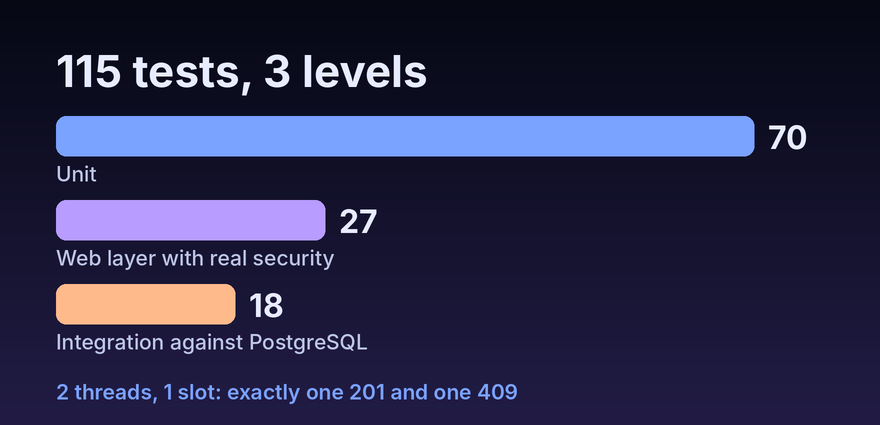
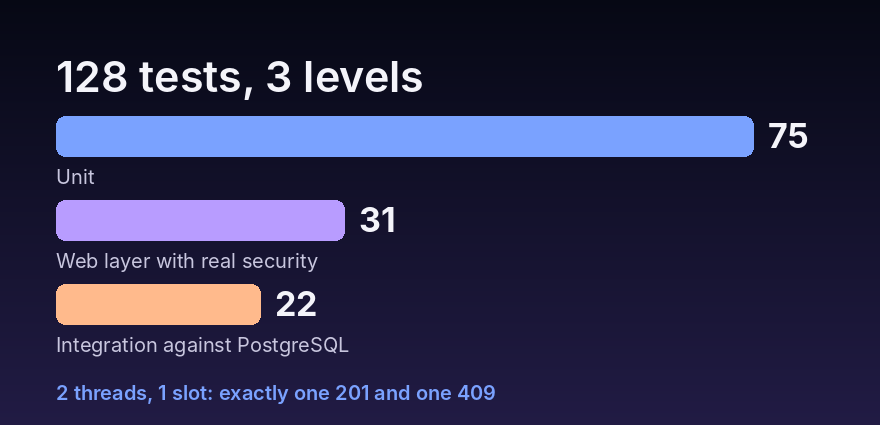
Cifras al día con los repos y CV regenerado
Dr. Agramonte ya tiene 128 pruebas (75 unitarias, 31 de capa web y 22 de
integración) y 5 E2E con Playwright, así que la tarjeta de QA ya no puede
decir que no hay pruebas de navegador. Rehago los dos gráficos.

En la Farmacia, las páginas salen de dos JSON; el CSV solo alimenta el
catálogo. Añado los 218 tests de pytest, que no salían en ninguna parte.

En el CV quito «consulta real»: la versión pública sigue siendo la demo.
Sumo Mockito, Playwright, pytest y Maven, que ya uso en los repos.

diff --git a/src/data/proyectos.js b/src/data/proyectos.js
@@ -28,20 +28,20 @@
 // con más peso técnico.
 //
 // Los datos de abajo salen de los README de cada repositorio, repasados el
-// 2026-11-06. Cuando cambie el proyecto, la fuente buena es su README.
+// 2026-11-08. Cuando cambie el proyecto, la fuente buena es su README.
 
 export const proyectos = [
   {
     titulo: "Web Dr. Agramonte",
-    // Sin «En desarrollo»: es el TFC entregado, con 115 pruebas y CI. La
+    // Sin «En desarrollo»: es el TFC entregado, con 128 pruebas y CI. La
     // etiqueta queda para los proyectos que de verdad están a medias.
     descripcion: {
       es: "Aplicación de citas para un internista en Palma, con agendas por centro, reservas sin registro y avisos por correo, Telegram y SMS. La demo usa datos ficticios.",
       en: "Appointment app for an internist in Palma, with schedules by clinic, booking without an account, and email, Telegram and SMS notifications. The demo uses fictional data.",
     },
     focoTecnico: {
-      es: "Reservas simultáneas resueltas con bloqueo pesimista en PostgreSQL y un test de concurrencia real. Backend cubierto por 115 pruebas.",
-      en: "Concurrent bookings handled with pessimistic locking in PostgreSQL and a real concurrency test. Backend covered by 115 tests.",
+      es: "Reservas simultáneas resueltas con bloqueo pesimista en PostgreSQL y un test de concurrencia real. Backend cubierto por 128 pruebas.",
+      en: "Concurrent bookings handled with pessimistic locking in PostgreSQL and a real concurrency test. Backend covered by 128 tests.",
     },
     imagen: `${import.meta.env.BASE_URL}img/dr-agramonte.png`,
     enlaceTexto: { es: "Ver demo", en: "View demo" },
@@ -68,12 +68,12 @@ export const proyectos = [
     // juntas. Los números salen de docs/PRUEBAS-Y-CALIDAD.md del repo.
     titulo: { es: "Cómo pruebo: Dr. Agramonte", en: "How I test: Dr. Agramonte" },
     descripcion: {
-      es: "La estrategia de pruebas de la web de citas, documentada con lo que cubre y con lo que todavía no: sin cobertura medida, sin pruebas de navegador y sin pruebas de carga.",
-      en: "The test strategy behind the booking app, documented with what it covers and what it doesn't yet: no measured coverage, no browser tests and no load tests.",
+      es: "La estrategia de pruebas de la web de citas, documentada con lo que cubre y con lo que todavía no: sin cobertura medida, sin pruebas de carga y con E2E de navegador solo en la reserva sin cuenta.",
+      en: "The test strategy behind the booking app, documented with what it covers and what it doesn't yet: no measured coverage, no load tests, and browser E2E tests only for guest booking.",
     },
     focoTecnico: {
-      es: "115 pruebas en tres niveles. Dos hilos sincronizados atacan el mismo hueco contra un PostgreSQL real y tiene que salir un 201 y un 409. El CI falla si alguna prueba se queda sin ejecutar.",
-      en: "115 tests on three levels. Two synchronized threads hit the same slot against a real PostgreSQL, and the result must be one 201 and one 409. CI fails if any test is skipped.",
+      es: "128 pruebas en tres niveles. Dos hilos sincronizados atacan el mismo hueco contra un PostgreSQL real y tiene que salir un 201 y un 409. El CI falla si alguna prueba se queda sin ejecutar.",
+      en: "128 tests on three levels. Two synchronized threads hit the same slot against a real PostgreSQL, and the result must be one 201 and one 409. CI fails if any test is skipped.",
     },
     // Gráfico con los números de PRUEBAS-Y-CALIDAD.md, uno por idioma porque
     // lleva texto: no hay una captura que enseñe una estrategia de pruebas.
@@ -82,16 +82,16 @@ export const proyectos = [
       en: `${import.meta.env.BASE_URL}img/pruebas-dr-agramonte-en.png`,
     },
     imagenAlt: {
-      es: "Gráfico de barras: 115 pruebas, 70 unitarias, 27 de capa web con la seguridad real y 18 de integración contra PostgreSQL.",
-      en: "Bar chart: 115 tests, 70 unit, 27 web-layer with real security and 18 integration against PostgreSQL.",
+      es: "Gráfico de barras: 128 pruebas, 75 unitarias, 31 de capa web con la seguridad real y 22 de integración contra PostgreSQL.",
+      en: "Bar chart: 128 tests, 75 unit, 31 web-layer with real security and 22 integration against PostgreSQL.",
     },
     enlace: "https://github.com/maragramonte/dr-agramonte/blob/main/docs/PRUEBAS-Y-CALIDAD.md",
     enlaceTexto: { es: "Ver la estrategia", en: "Read the strategy" },
     decisiones: "https://github.com/maragramonte/dr-agramonte/blob/main/docs/PRUEBAS-Y-CALIDAD.md#qué-no-cubre",
     decisionesTexto: { es: "Qué no cubre", en: "What it doesn't cover" },
     tecnologias: {
-      es: ["JUnit 5", "Mockito", "Testcontainers", "PostgreSQL", "Postman", "GitHub Actions"],
-      en: ["JUnit 5", "Mockito", "Testcontainers", "PostgreSQL", "Postman", "GitHub Actions"],
+      es: ["JUnit 5", "Mockito", "Testcontainers", "Playwright", "PostgreSQL", "Postman", "GitHub Actions"],
+      en: ["JUnit 5", "Mockito", "Testcontainers", "Playwright", "PostgreSQL", "Postman", "GitHub Actions"],
     },
   },
   {
@@ -139,8 +139,8 @@ export const proyectos = [
       en: "Three-language website for a neighborhood pharmacy in El Born, Barcelona. It shows what's on the counter, lets you build an order in a basket and sends it over WhatsApp; the site takes no payment.",
     },
     focoTecnico: {
-      es: "Un script de Python genera 143 de sus 154 páginas estáticas desde el CSV del programa de gestión, sin publicar medicamentos ni precios. Los tests de pytest vigilan el catálogo y los enlaces.",
-      en: "A Python script generates 143 of its 154 static pages from the management software's CSV, without publishing medicines or prices. pytest tests guard the catalog and the links.",
+      es: "Un script de Python genera 143 de sus 154 páginas a partir de dos JSON, y el catálogo se importa desde el CSV del programa de gestión. Sin medicamentos ni precios. 218 tests de pytest vigilan el catálogo, los enlaces y el importador.",
+      en: "A Python script generates 143 of its 154 pages from two JSON files, and the catalog is imported from the management software's CSV. No medicines or prices. 218 pytest tests guard the catalog, the links and the importer.",
     },
     estado: { es: "En desarrollo", en: "Work in progress" },
     imagen: `${import.meta.env.BASE_URL}img/farmacia-agramonte.png`,
